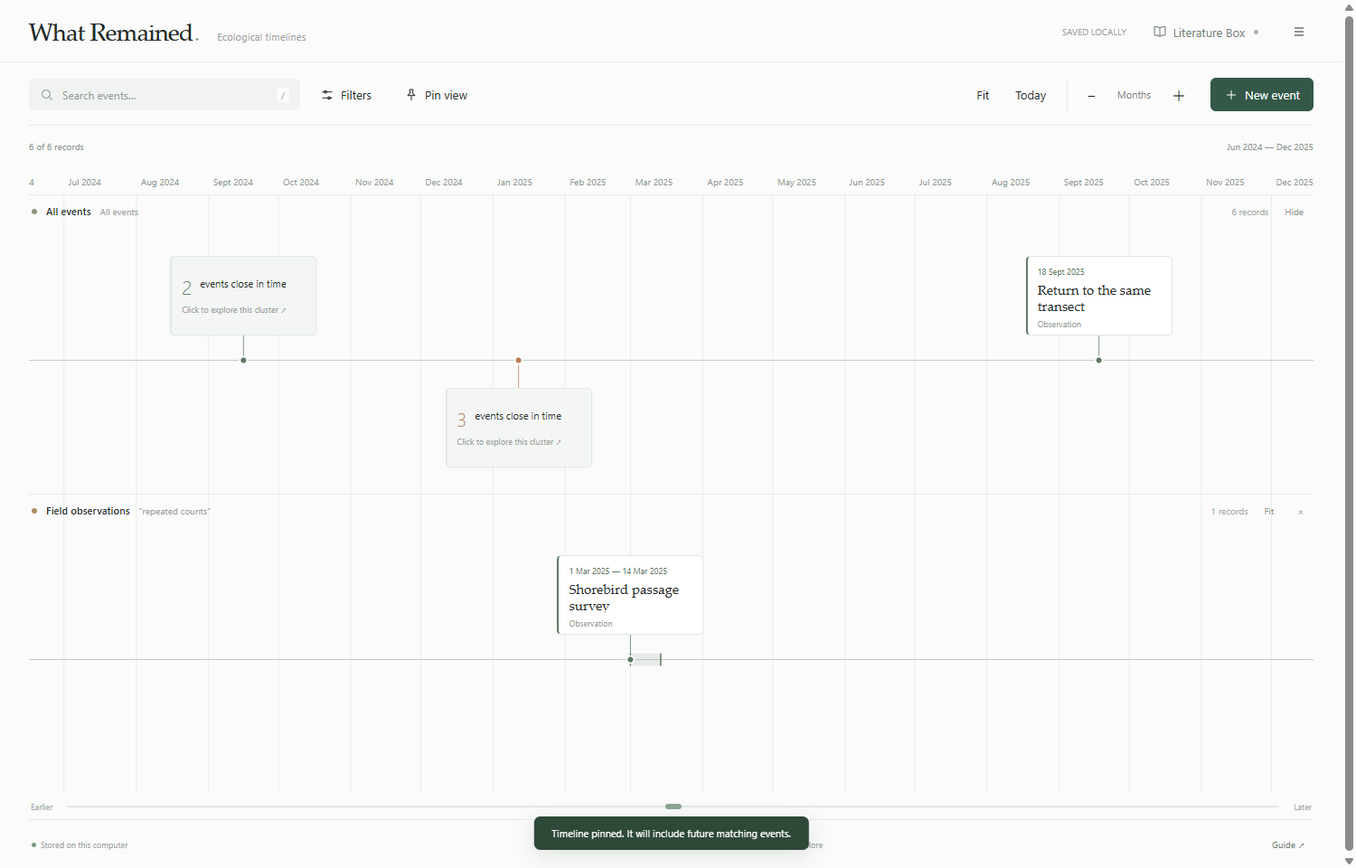
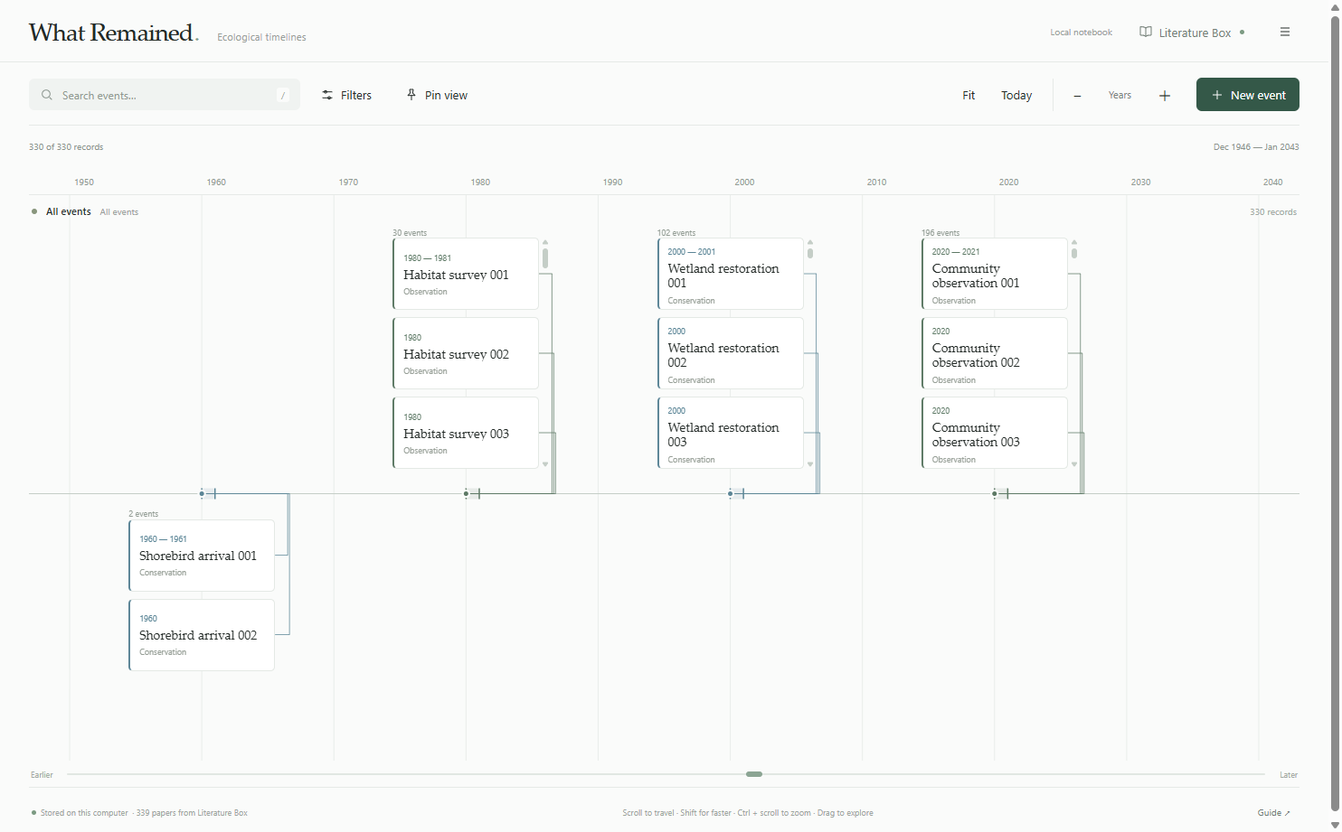
List nearby events individually and keep exact date anchors

diff --git a/ui/app.js b/ui/app.js
@@ -1,5 +1,5 @@
 /* Reminiscence — no framework, no network, only the visible landscape is drawn. */
-const {DAY,parseDate,eventTimes,plain,indexEvent,matches,validateEvent,visibleGroups}=window.FieldCore;
+const {DAY,parseDate,eventTimes,plain,indexEvent,matches,validateEvent,visibleGroups,columnWindow,eventPosition}=window.FieldCore;
 const $=selector=>document.querySelector(selector);
 const esc=value=>String(value??'').replace(/[&<>"']/g,c=>({'&':'&amp;','<':'&lt;','>':'&gt;','"':'&quot;',"'":'&#39;'}[c]));
 const uid=()=>crypto.randomUUID();
@@ -11,6 +11,7 @@ const color=e=>/^#[a-f\d]{6}$/i.test(e.color)?e.color:(C.settings.categories.fin
 const categoryName=e=>C.settings.categories.find(c=>c.id===e.category)?.name||'Uncategorized';
 const asset=a=>`field-asset://local/${encodeURIComponent(a.id)}`;
 let toastTimer,filterTimer,viewTimer,frame=0,lensTimer,activeDraft=null,draftTimer,persistPromise=Promise.resolve(),draftDirty=false;
+const columnPositions=new Map(),columnModels=new Map(),trackModels=new Map();
 function toast(text) {$('#toast').textContent=text;$('#toast').hidden=false;clearTimeout(toastTimer);toastTimer=setTimeout(()=>$('#toast').hidden=true,4000);}
 function report(error){console.error(error);toast(error.message||String(error));}
 function accept(data,initial=false){
@@ -27,10 +28,11 @@ function updateSync(){
 }
 function filterDescription(f){return [f.query && `“${f.query}”`,f.categories?.map(id=>C.settings.categories.find(c=>c.id===id)?.name).join(', '),f.source!=='all'&&f.source==='papers'?'Literature':f.source==='events'?'My events':'',f.from&&`from ${f.from}`,f.to&&`until ${f.to}`].filter(Boolean).join(' · ')||'All events';}
 function rebuild(){
+  rememberColumns();
   const usable=C.events.filter(e=>!e.hidden);
   const definitions=[...(C.showCurrent?[{id:'current',name:'All events',filter:C.filter}]:[]),...C.settings.pins];
   if(!definitions.length){C.showCurrent=true;definitions.push({id:'current',name:'All events',filter:C.filter});}
-  C.lanes=definitions.map(lane=>({...lane,events:usable.filter(e=>matches(e,lane.filter,C.index.get(e.id)||''))}));
+  C.lanes=definitions.map(lane=>({...lane,events:usable.filter(e=>matches(e,lane.filter,C.index.get(e.id)||'')).sort((a,b)=>(eventTimes(a).a??Infinity)-(eventTimes(b).a??Infinity))}));
   const selected=new Set(C.lanes.flatMap(l=>l.events.map(e=>e.id)));
   const undated=usable.filter(e=>selected.has(e.id)&&parseDate(e.start)===null);
   $('#event-count').textContent=`${selected.size.toLocaleString()} of ${usable.length.toLocaleString()} records`;
@@ -77,9 +79,14 @@ function zoom(factor,x){
   moveTo(C.targetCenter+(x===undefined?0:x-width/2)*(C.targetScale-next),next);
 }
 function wheel(event){
-  event.preventDefault();hideLens();
+  hideLens();
   let dx=event.deltaX,dy=event.deltaY;
   if(event.deltaMode===1){dx*=24;dy*=24;}if(event.deltaMode===2){dx*=event.currentTarget.clientWidth;dy*=400;}
+  const column=event.target.closest('.event-column');
+  if(column&&!event.ctrlKey&&!event.metaKey&&!event.shiftKey&&Math.abs(dy)>=Math.abs(dx)&&column.scrollHeight>column.clientHeight){
+    event.preventDefault();column.scrollTop+=dy;return;
+  }
+  event.preventDefault();
   if(event.ctrlKey||event.metaKey)zoom(Math.exp(dy*.0025),event.clientX-event.currentTarget.getBoundingClientRect().left);
   else {
     const delta=Math.abs(dx)>Math.abs(dy)?dx:dy;
@@ -89,7 +96,7 @@ function wheel(event){
   }
 }
 function panStart(event){
-  if(event.button!==0||event.target.closest('button'))return;
+  if(event.button!==0||event.target.closest('button,.event-column'))return;
   const track=event.currentTarget,startX=event.clientX,center=C.targetCenter;let moved=false;
   track.setPointerCapture(event.pointerId);track.classList.add('dragging');hideLens();
   const move=e=>{if(Math.abs(e.clientX-startX)>3)moved=true;moveTo(center-(e.clientX-startX)*C.targetScale,C.targetScale);};
@@ -104,22 +111,113 @@ function ticks(left,right,width){
   else{const years=target/(DAY*365.2425);const base=10**Math.floor(Math.log10(years));const step=[1,2,5,10].map(x=>x*base).find(x=>x>=years)||base*10;const first=Math.floor(new Date(left).getUTCFullYear()/step)*step;for(let y=Math.max(1,first);y<=Math.min(9999,new Date(right).getUTCFullYear()+step);y+=step){const d=new Date(0);d.setUTCFullYear(y,0,1);d.setUTCHours(0,0,0,0);result.push({t:d.getTime(),label:String(y)});}}
   return result;
 }
+function rememberColumns(){
+  for(const node of document.querySelectorAll('.event-column'))columnPositions.set(node.dataset.columnKey,node.scrollTop);
+  if(columnPositions.size>2000){const keep=[...columnPositions.entries()].slice(-1000);columnPositions.clear();keep.forEach(([key,value])=>columnPositions.set(key,value));}
+}
+function cardMarkup(event,left,top,extra=''){
+  const attachment=event.attachments?.find(a=>a.image);
+  return `<button class="event-card ${attachment?'has-image':''}" data-event="${esc(event.id)}" title="${esc(event.title)}" style="left:${left}px;top:${top}px;--c:${color(event)}" ${extra}><span class="event-date">${esc(dateLabel(event.start))}${event.end?' — '+esc(dateLabel(event.end)):''}</span><strong>${esc(event.title)}</strong><small>${esc(event.place||event.source?.authors||categoryName(event))}${event.attachments?.length?' · ▧':''}</small>${attachment?`<img src="${asset(attachment)}" alt="">`:''}</button>`;
+}
+function updateColumn(node){
+  const model=columnModels.get(node.dataset.columnKey);if(!model)return;
+  const view=columnWindow(model.events.length,node.scrollTop,model.height);
+  model.offset=node.scrollTop;model.start=view.start;model.end=view.end;
+  if(model.drawnStart===view.start&&model.drawnEnd===view.end)return;
+  model.drawnStart=view.start;model.drawnEnd=view.end;
+  let rows='';
+  for(let i=view.start;i<view.end;i++)rows+=`<div class="event-row" role="listitem" aria-posinset="${i+1}" aria-setsize="${model.events.length}" data-row="${i}" style="top:${i*88}px">${cardMarkup(model.events[i],0,0)}</div>`;
+  node.querySelector('.column-spacer').innerHTML=rows;
+}
+function columnKeydown(event,node){
+  const model=columnModels.get(node.dataset.columnKey);if(!model)return;
+  const key=event.key;if(!['ArrowUp','ArrowDown','PageUp','PageDown','Home','End'].includes(key))return;
+  event.preventDefault();event.stopPropagation();
+  const current=Number(event.target.closest('[data-row]')?.dataset.row??Math.floor(node.scrollTop/88));
+  const page=Math.max(1,Math.floor(node.clientHeight/88));
+  const next=key==='Home'?0:key==='End'?model.events.length-1:Math.max(0,Math.min(model.events.length-1,current+(key==='ArrowUp'?-1:key==='ArrowDown'?1:key==='PageUp'?-page:page)));
+  if(next*88<node.scrollTop)node.scrollTop=next*88;
+  else if(next*88+80>node.scrollTop+node.clientHeight)node.scrollTop=next*88+80-node.clientHeight;
+  columnPositions.set(node.dataset.columnKey,node.scrollTop);updateColumn(node);paintConnections(model.track);
+  node.querySelector(`[data-row="${next}"] button`)?.focus({preventScroll:true});
+}
+function paintAnchors(model){
+  const canvas=model.track.querySelector('.anchor-layer'),ratio=window.devicePixelRatio||1;
+  const pixelWidth=Math.ceil(model.width*ratio),pixelHeight=Math.ceil(model.height*ratio);
+  if(canvas.width!==pixelWidth||canvas.height!==pixelHeight){canvas.width=pixelWidth;canvas.height=pixelHeight;canvas.style.width=model.width+'px';canvas.style.height=model.height+'px';}
+  const context=canvas.getContext('2d');context.setTransform(ratio,0,0,ratio,0,0);context.clearRect(0,0,model.width,model.height);
+  const points=new Map();
+  for(const group of model.groups)for(const event of group.events){
+    const position=eventPosition(event,C.center,C.scale,model.width);
+    if(position.x<0||position.x>model.width)continue;
+    const c=color(event);if(!points.has(c))points.set(c,new Set());points.get(c).add(position.x);
+  }
+  for(const [c,positions] of points){context.fillStyle=c;context.globalAlpha=.65;context.beginPath();for(const x of positions){context.moveTo(x+2.6,model.axis);context.arc(x,model.axis,2.6,0,Math.PI*2);}context.fill();}
+}
+function paintConnections(track){
+  const model=trackModels.get(track);if(!model)return;
+  const {width,axis}=model;let svg=`<line class="axis-line" x1="0" x2="${width}" y1="${axis}" y2="${axis}"/>`;
+  const connect=(event,path)=>{
+    const position=eventPosition(event,C.center,C.scale,width),c=color(event);
+    if(event.end&&position.endX>=0&&position.x<=width){
+      const x1=Math.max(0,position.x),x2=Math.min(width,position.endX);
+      let caps='';for(const x of [position.x,position.endX])if(x>=0&&x<=width)caps+=`M${x},${axis-6}V${axis+6}`;
+      svg+=`<g style="--c:${c}"><rect class="period" x="${x1}" y="${axis-6}" width="${Math.max(1,x2-x1)}" height="12" rx="2"/><path class="period-outline" d="${caps}"/></g>`;
+    }
+    svg+=`<g style="--c:${c}"><path class="connector" d="${path(position.x)}"/><circle class="anchor" data-event-anchor="${esc(event.id)}" cx="${position.x}" cy="${axis}" r="3.5"/></g>`;
+  };
+  for(const single of model.singles)connect(single.event,x=>`M${x},${axis}V${single.top<axis?single.top+88:single.top}`);
+  for(const column of model.columns){
+    for(let i=column.start;i<column.end;i++){
+      const rowTop=column.top+i*88-column.offset;
+      if(rowTop+80<=column.top||rowTop>=column.top+column.height)continue;
+      const y=Math.max(column.top+2,Math.min(column.top+column.height-2,rowTop+40));
+      const rail=column.left+176+(i%3)*2;
+      connect(column.events[i],x=>`M${column.left+162},${y}H${rail}V${axis}H${x}`);
+    }
+  }
+  track.querySelector('.connection-layer').innerHTML=svg;
+}
 function render(){
+  rememberColumns();
+  for(const [track,old] of trackModels)if(!track.isConnected){trackModels.delete(track);for(const column of old.columns)columnModels.delete(column.key);}
   const bounds=allBounds();
   C.lanes.forEach(lane=>{
     const track=document.querySelector(`[data-lane="${CSS.escape(lane.id)}"] .track`);if(!track)return;
     const width=track.clientWidth,height=track.clientHeight,axis=height/2;
     const groups=visibleGroups(lane.events,C.center,C.scale,width);
-    let svg=`<line class="axis-line" x1="0" x2="${width}" y1="${axis}" y2="${axis}"/>`,cards='';
+    const previous=trackModels.get(track);
+    const reusable=previous&&previous.events===lane.events&&previous.scale===C.scale&&previous.width===width&&previous.height===height&&previous.groups.length===groups.length&&groups.every((g,i)=>{const old=previous.groups[i];return g.events.length===old.events.length&&g.events[0].id===old.events[0].id&&g.events.at(-1).id===old.events.at(-1).id;});
+    if(reusable){
+      previous.groups=groups;
+      previous.layouts.forEach((layout,i)=>{const left=groups[i].x-81;layout.node.style.left=left+'px';if(layout.label)layout.label.style.left=left+'px';if(layout.column)layout.column.left=left;});
+      paintAnchors(previous);paintConnections(track);return;
+    }
+    if(previous)for(const column of previous.columns)columnModels.delete(column.key);
+    const model={track,width,height,axis,groups,events:lane.events,scale:C.scale,singles:[],columns:[],layouts:[]};trackModels.set(track,model);
+    let content='';
     groups.forEach((g,i)=>{
-      const event=g.events[0],c=color(event),top=i%2===0?axis-116:axis+30,cardX=Math.max(8,Math.min(width-170,g.x-81));
-      const yEnd=top<axis?top+88:top;
-      if(g.events.length===1 && event.end){const x1=Math.max(0,g.startX),x2=Math.min(width,g.endX);svg+=`<g style="--c:${c}"><rect class="period" x="${x1}" y="${axis-7}" width="${Math.max(3,x2-x1)}" height="14" rx="3"/><path class="period-outline" d="M${x1},${axis-7}V${axis+7}M${x2},${axis-7}V${axis+7}"/></g>`;}
-      svg+=`<g style="--c:${c}"><path class="connector" d="M${g.x},${axis}V${yEnd}"/><circle class="anchor" cx="${g.x}" cy="${axis}" r="4"/></g>`;
-      const attachment=event.attachments?.find(a=>a.image);
-      cards+=g.events.length>1?`<button class="event-card cluster" data-cluster="${i}" data-lane-id="${esc(lane.id)}" style="left:${cardX}px;top:${top}px;--c:${c}"><span class="cluster-count">${g.events.length}</span><strong>events close in time</strong><small>Click to explore this cluster ↗</small></button>`:`<button class="event-card ${attachment?'has-image':''}" data-event="${esc(event.id)}" style="left:${cardX}px;top:${top}px;--c:${c}"><span class="event-date">${esc(dateLabel(event.start))}${event.end?' — '+esc(dateLabel(event.end)):''}</span><strong>${esc(event.title)}</strong><small>${esc(event.place||event.source?.authors||categoryName(event))}${event.attachments?.length?' · ▧':''}</small>${attachment?`<img src="${asset(attachment)}" alt="">`:''}</button>`;
+      // Card columns can reflow on zoom; every date anchor is computed separately.
+      const above=Math.abs(g.key)%2===0,left=g.x-81;
+      if(g.events.length===1){const top=above?axis-116:axis+30;model.singles.push({event:g.events[0],top});model.layouts.push({id:g.events[0].id});content+=cardMarkup(g.events[0],left,top);return;}
+      const top=above?12:axis+28,columnHeight=Math.max(88,above?axis-40:height-top-8);
+      const key=lane.id+':'+g.events[0].id;
+      const column={key,events:g.events,top,left,height:columnHeight,track,offset:0,start:0,end:0};model.columns.push(column);columnModels.set(key,column);
+      model.layouts.push({column});
+      content+=`<div class="column-count" style="left:${left}px;top:${Math.max(0,top-13)}px">${g.events.length.toLocaleString()} events</div><div class="event-column" data-column-key="${esc(key)}" role="list" tabindex="0" aria-label="${g.events.length} individual events, in date order. Scroll vertically to browse; Shift-scroll travels through time." style="left:${left}px;top:${top}px;height:${columnHeight}px"><div class="column-spacer" style="height:${g.events.length*88}px"></div></div>`;
     });
-    track.innerHTML=`<svg width="${width}" height="${height}" aria-hidden="true">${svg}</svg>${cards}${!groups.length?`<div class="lane-empty">${lane.events.some(e=>e.start)?'No events here. Keep travelling, or fit the view.':lane.events.length?'These records have no date yet. Open the undated list.':'No events match this view.'}</div>`:''}`;
+    track.innerHTML=`<canvas class="anchor-layer" aria-hidden="true"></canvas><svg class="connection-layer" width="${width}" height="${height}" aria-hidden="true"></svg>${content}${!groups.length?`<div class="lane-empty">${lane.events.some(e=>e.start)?'No events here. Keep travelling, or fit the view.':lane.events.length?'These records have no date yet. Open the undated list.':'No events match this view.'}</div>`:''}`;
+    for(const node of track.querySelectorAll('.event-column')){
+      const column=columnModels.get(node.dataset.columnKey);
+      node.scrollTop=columnPositions.get(column.key)||0;updateColumn(node);
+      node.addEventListener('scroll',()=>{if(!node.isConnected)return;columnPositions.set(column.key,node.scrollTop);updateColumn(node);paintConnections(track);},{passive:true});
+      node.addEventListener('keydown',event=>columnKeydown(event,node));
+    }
+    for(const layout of model.layouts){
+      if(layout.column){layout.node=track.querySelector(`[data-column-key="${CSS.escape(layout.column.key)}"]`);layout.label=layout.node.previousElementSibling;}
+      else layout.node=track.querySelector(`[data-event="${CSS.escape(layout.id)}"]`);
+    }
+    paintAnchors(model);paintConnections(track);
   });
   const width=$('.track')?.clientWidth||1100;
   const canvasHeight=$('#timeline-canvas').clientHeight;
@@ -155,7 +253,7 @@ function pinFilter(){panel('PIN A VIEW',`<h3>A thread through the landscape.</h3
 function categoriesPanel(){panel('CATEGORIES & COLORS',`<h3>A palette of connections.</h3><p>Choose your own names and colors. Changing a category color updates its connecting lines.</p><div id="category-editor">${C.settings.categories.map(c=>`<div class="category-edit" data-id="${esc(c.id)}"><input type="color" value="${esc(c.color)}" aria-label="Category color"><input type="text" value="${esc(c.name)}" aria-label="Category name"><button data-delete-category="${esc(c.id)}" aria-label="Delete category">×</button></div>`).join('')}</div><button id="add-category">＋ Category</button><button id="save-categories" class="primary">Apply palette</button><p>Deleting a category keeps its events and their individual colors.</p>`);}
 function libraryPanel(){panel('LITERATURE BOX',`<h3>Your reading, in time.</h3><p>${esc(C.syncStatus.message)}</p><div class="settings-row"><p>Read-only sync checks for changes every 20 seconds while What Remained is open. Publication years remain year-level dates. Every field on a paper card is searchable. Your own notes and attachments are kept separately.</p><code>${esc(C.settings.sourcePath||'No library selected')}</code></div><button id="choose-library">Choose library…</button><button id="sync-now">Sync now</button><button id="toggle-sync">${C.settings.sync?'Pause':'Resume'} sync</button><p>Removed source cards are retained with a source-unavailable label. Hidden papers stay hidden. Source images are shown when opening a paper; attachments you add here are saved locally.</p>`);}
 function settingsPanel(){panel('YOUR NOTEBOOK',`<h3>Notebook settings</h3><div class="settings-row"><label>Scroll speed <select id="scroll-speed">${[[1,'Gentle'],[2,'Standard'],[4,'Fast'],[8,'Very fast']].map(([value,name])=>`<option value="${value}" ${Number(C.settings.scrollSpeed||4)===value?'selected':''}>${name}</option>`).join('')}</select></label><p>Larger movements accelerate. Hold Shift for a 3× speed boost. Ctrl + scroll zooms.</p></div><div class="settings-row"><button id="export-backup">Export portable backup</button><button id="import-backup">Import & merge backup…</button><p>Portable backups include your events, categories, pinned views, and attached files. Imports merge by event ID; matching IDs are updated. Your automatic database backup is in the Backups folder.</p></div><div class="settings-row"><button id="open-folder">Open notebook folder</button><p><code>${esc(C.root)}</code></p><button id="settings-categories">Categories & colors</button><button id="settings-library">Literature Box connection</button></div><div class="settings-row"><button id="restore-papers">Restore hidden papers</button><p>No accounts, telemetry, or cloud services. Files stay on this computer.</p></div>`);}
-function helpPanel(){panel('A SMALL FIELD GUIDE',`<h3>Make room for time.</h3><p><b>Travel.</b> Scroll or drag a timeline. The bottom slider travels across your whole collection. All pinned views move together. Use Ctrl + scroll, the + / − buttons, or the keyboard to zoom.</p><p><b>Record.</b> Add a point in time or give it an end date. Hover a period for its magnified lens. Attach pictures, PDFs, or other files; add captions and any custom fields you need. Double-click empty timeline space to add an event there.</p><p><b>Connect.</b> Search matches words across every field, source metadata, captions, and filenames. Multiple words must all appear. Categories are combined with OR; other filters are combined with AND. Date filters include periods that overlap the chosen range.</p><p><b>Compare.</b> Pin a filter to create a separate timeline; repeat to compare several threads. Each pin remembers the filter. Use the current search view for exploring without changing pins.</p><p><b>Read density.</b> Nearby events gather into numbered clusters. Open a cluster to browse every event, or zoom closer. Nothing is dropped from a dense view.</p><p><b>Keep.</b> Event changes save in the background after a short pause and before you close the app. Export a portable backup to move the notebook, including its files. A database backup is also refreshed after edits.</p><p><b>Shortcuts.</b> / focuses search · N adds an event · arrows pan a focused timeline · + / − zoom · Esc closes dialogs.</p>`);}
+function helpPanel(){panel('A SMALL FIELD GUIDE',`<h3>Make room for time.</h3><p><b>Travel.</b> Scroll or drag a timeline. The bottom slider travels across your whole collection. All pinned views move together. Use Ctrl + scroll, the + / − buttons, or the keyboard to zoom.</p><p><b>Record.</b> Add a point in time or give it an end date. Hover a period for its magnified lens. Attach pictures, PDFs, or other files; add captions and any custom fields you need. Double-click empty timeline space to add an event there.</p><p><b>Connect.</b> Search matches words across every field, source metadata, captions, and filenames. Multiple words must all appear. Categories are combined with OR; other filters are combined with AND. Date filters include periods that overlap the chosen range.</p><p><b>Compare.</b> Pin a filter to create a separate timeline; repeat to compare several threads. Each pin remembers the filter. Use the current search view for exploring without changing pins.</p><p><b>Read density.</b> Nearby events stay as individual cards in chronological columns. Scroll a long column vertically to browse every event; hold Shift to travel horizontally. Each event keeps its own exact date point. Year-only events anchor to 1 January.</p><p><b>Keep.</b> Event changes save in the background after a short pause and before you close the app. Export a portable backup to move the notebook, including its files. A database backup is also refreshed after edits.</p><p><b>Shortcuts.</b> / focuses search · N adds an event · arrows pan a focused timeline · + / − zoom · Esc closes dialogs.</p>`);}
 function makeDraft(time){const d=new Date(time??Date.now());return {id:uid(),title:'',start:d.toISOString().slice(0,10),end:'',category:C.settings.categories[0]?.id||'',color:C.settings.categories[0]?.color||'#5d7965',place:'',species:'',tags:'',text:'',notes:'',extraFields:{},attachments:[]};}
 function openEditor(event,time){
   hideLens();activeDraft=structuredClone(event||makeDraft(time));draftDirty=false;
@@ -212,7 +310,6 @@ async function examples(){
 document.addEventListener('click',async event=>{try{
   const b=event.target.closest('button');if(!b)return;
   if(b.dataset.event){await closePanel();openEditor(C.events.find(e=>e.id===b.dataset.event));return;}
-  if(b.dataset.cluster!==undefined){const lane=C.lanes.find(l=>l.id===b.dataset.laneId);const track=b.closest('.track');const groups=visibleGroups(lane.events,C.center,C.scale,track.clientWidth);listEvents('Close in time',groups[Number(b.dataset.cluster)].events);return;}
   if(b.dataset.openListed){$('#panel').close();openEditor(C.events.find(e=>e.id===b.dataset.openListed));return;}
   if(b.dataset.categoryFilter){const id=b.dataset.categoryFilter;C.filter.categories=C.filter.categories.includes(id)?C.filter.categories.filter(c=>c!==id):[...C.filter.categories,id];filterChanged();return;}
   if(b.hasAttribute('data-hide-current')){C.showCurrent=false;rebuild();return;}

diff --git a/ui/app.css b/ui/app.css
@@ -69,6 +69,7 @@ textarea{resize:vertical;line-height:1.6;font-family:var(--serif);font-size:15px
 #lanes:has(.lane:nth-child(2)) .track{height:clamp(256px,calc((100vh - 300px)/var(--lane-count) - 35px),390px)}
 .track.dragging{cursor:grabbing}
 .track>svg{position:absolute;inset:0;pointer-events:none}
+.anchor-layer{position:absolute;inset:0;pointer-events:none}
 .axis-line{stroke:#c5cec7;stroke-width:1}
 .tick-line{stroke:#e9edea;stroke-width:1}
 .tick-text{fill:#8f9992;font:10px 'Segoe UI',sans-serif}
@@ -79,10 +80,15 @@ textarea{resize:vertical;line-height:1.6;font-family:var(--serif);font-size:15px
 .event-card small{display:block;white-space:nowrap;overflow:hidden;text-overflow:ellipsis;color:#98a098;font-size:9px;margin-top:5px}
 .event-card.has-image{padding-right:46px}
 .event-card img{position:absolute;right:7px;bottom:10px;width:31px;height:38px;object-fit:cover;border-radius:3px}
-.cluster{background:#f3f6f4;border-color:#e1e8e2}
-.cluster .cluster-count{font-size:21px;line-height:1;color:var(--c);float:left;margin:2px 9px 0 0;font-weight:300}
-.cluster strong{font-family:inherit;font-size:11px;line-height:1.45;margin-top:1px}
-.cluster small{clear:both;padding-top:8px}
+.event-column{position:absolute;width:174px;padding-right:6px;overflow-y:auto;overflow-x:hidden;overscroll-behavior:contain;scrollbar-width:thin;scrollbar-color:#c5cec7 transparent;cursor:default;scrollbar-gutter:stable}
+.event-column::-webkit-scrollbar{width:6px}.event-column::-webkit-scrollbar-thumb{background:#c5cec7;border-radius:4px}.event-column::-webkit-scrollbar-track{background:transparent}
+.column-spacer{position:relative;width:162px}
+.event-row{position:absolute;left:0;width:162px;height:80px}
+.event-column .event-card{height:80px;padding:8px 10px;box-shadow:none}
+.event-column .event-card strong{font-size:14px;line-height:1.15}
+.event-column .event-card small{margin-top:4px}
+.event-column .event-card:hover{transform:none}
+.column-count{position:absolute;color:#929c94;font-size:9px;pointer-events:none;line-height:12px}
 .period{fill:var(--c);opacity:.12}.period-outline{stroke:var(--c);stroke-width:1.5;fill:none}
 .connector{stroke:var(--c);stroke-width:1;fill:none;opacity:.75}.anchor{fill:var(--c);stroke:var(--paper);stroke-width:2}
 .lane-bottom{height:29px;display:flex;align-items:center;gap:14px;color:#a2aaa4;font-size:9px;padding:0 2px}

diff --git a/README.md b/README.md
@@ -12,6 +12,10 @@ Run the installer to create Start menu and desktop shortcuts, or extract the por
 
 ![What Remained: events and pinned filters on one shared timeline canvas](docs/timeline.png)
 
+## Development preview: 1.2.0
+
+The local 1.2.0 preview replaces collapsed groups with individually readable, scrollable event columns. Every event retains its own exact date point; year-only events anchor to 1 January. Panning does not regroup columns or pin dates to the viewport edges. The download links above remain the published 1.1.0 release until this visual update is approved for publication.
+
 Your notebook lives in **Documents/Reminiscence**, independently of the application folder. The SQLite database is `reminiscence.sqlite`; managed files live in `Attachments`. An automatic database backup is refreshed after edits in `Backups`. Use **Notebook settings → Export portable backup** to include attachments in a portable JSON backup. Import merges event IDs and updates matching records. To remove the application, right-click `Uninstall.ps1` in its installation folder and run it with PowerShell; notebook data is retained.
 
 The app was previously named Reminiscence. Its existing notebook directory, database filenames, and backup format identifier are deliberately retained so the rename opens the same data and remains compatible with older backups. The visible app name, executable, installer, and shortcuts are now What Remained.
@@ -29,7 +33,7 @@ Travel defaults to Fast (4× wheel distance), accelerates larger gestures, and a
 - Hover a period to see an enlarged period lens; open it and choose **Fit period** to inspect its interval in the timeline.
 - Search across event fields, custom fields, filenames, captions, category names, and all synced paper metadata. Search ignores case and accents. Multiple words use AND; selected categories use OR. Other filters use AND; date filters include overlapping periods.
 - Pin any filter under a name to create an additional timeline. Pins retain their own filters and automatically include future matching events. All timelines share one zoom and time position. Hide the search lane when comparing pins.
-- Dense views group events into clickable clusters. Click to browse every member or zoom closer. Only visible clusters are drawn; records are never dropped to reduce rendering load.
+- Dense views list nearby events individually in chronological columns. Scroll a column vertically to browse every event, or hold Shift to travel horizontally. Long columns draw only the rows currently in view and nearby rows, while keeping every event reachable. Each event retains its own exact date point, including when panning or zooming; year-only events anchor to 1 January.
 - Changes save in the background after a brief pause and are flushed before normal app closure. Invalid drafts remain open with an error. An empty new event is discarded on close.
 
 ## Literature Box
